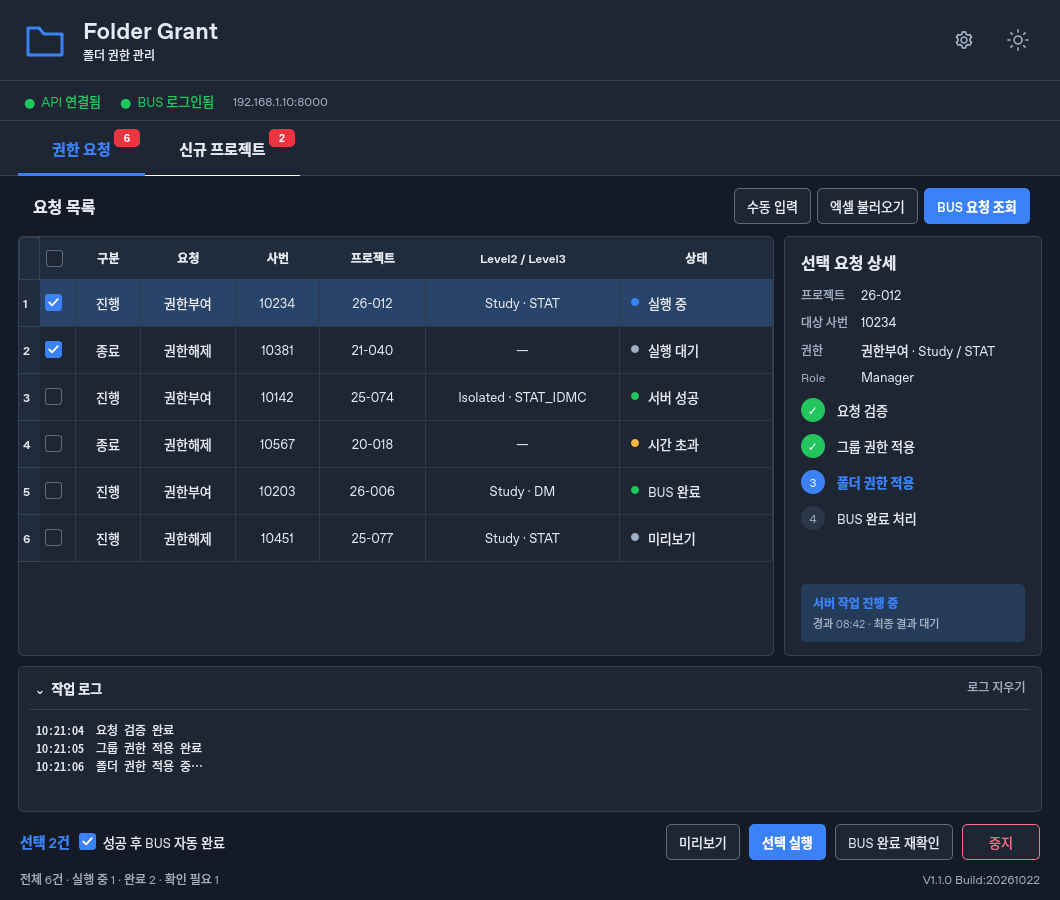
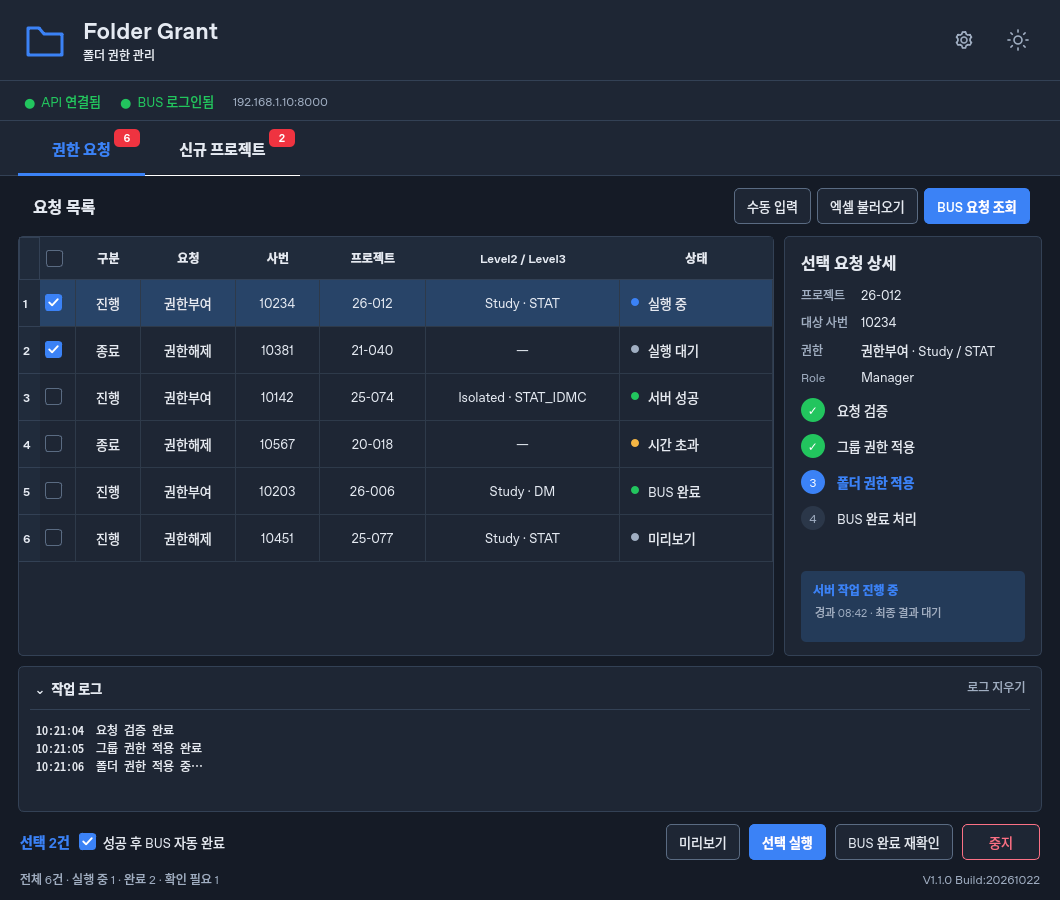
Prevent error detail clipping with a scrollable message area

Changed region(s): [[0.7472, 0.6222, 0.9651, 0.7156]]

diff --git a/Client/tests/render_ui_preview.py b/Client/tests/render_ui_preview.py
@@ -59,6 +59,17 @@ def render():
             w._mark_list_loaded('project',w._newdlg.tbl.rowCount())
             app.processEvents()
             w.grab().save(str(output/'client-projects-v1.1.0.png'))
+        if '--error' in __import__('sys').argv:
+            w.tabs.setCurrentIndex(0); w.apply_theme('light')
+            error = '\\\\LSK_S010\\Study Folder\\19087\\Study\\MW: The system cannot find the file specified.\nicacls grant failed: 2'
+            w.table.item(0,w.COL_PROJ).setText('1987')
+            w.table.item(0,w.COL_LV3).setText('MW')
+            w._set_row_metadata(0,dict(source='bus',result=dict(status='partially_succeeded',error_code='POWERSHELL_FAILED',error_message=error,
+                steps=[dict(type='add_ad_group_member',status='succeeded'),dict(type='grant_folder_acl',status='failed')])))
+            w.table.item(0,w.COL_STATUS).setText('BUS 완료 보류: POWERSHELL_FAILED')
+            w.table.setCurrentCell(0,w.COL_PROJ); w._refresh_detail()
+            for _ in range(4):app.processEvents()
+            w.grab().save(str(output/'client-error-detail-v1.1.0.png'))
         if '--startup' in __import__('sys').argv:
             from PyQt5.QtTest import QTest
             w.hide()

diff --git a/Client/tests/test_ui_design.py b/Client/tests/test_ui_design.py
@@ -282,3 +282,21 @@ class DesignTests(unittest.TestCase):
         self.assertNotIn('raw-only-target',text)
         self.assertNotIn('"status"',text)
         self.assertIn('시간 초과',text)
+
+    def test_long_error_message_is_scrollable_without_losing_last_line(self):
+        w = self.window
+        self.show()
+        self.assertIsInstance(w.status_label,self.m.QTextEdit)
+        message = ('\\LSK_S010\\Study Folder\\19087\\Study\\MW: The system cannot find the file specified.\n'*20)+'마지막 오류 줄'
+        w.status_label.setText(message)
+        self.app.processEvents()
+        self.assertEqual(w.status_label.toPlainText(),message)
+        bar = w.status_label.verticalScrollBar()
+        self.assertGreater(bar.maximum(),0)
+        bar.setValue(bar.maximum())
+        w.status_label.setText(message)
+        self.assertEqual(bar.value(),bar.maximum())
+        w.status_label.setText('성공')
+        self.app.processEvents()
+        self.assertEqual(w.status_label.verticalScrollBar().maximum(),0)
+        self.assertLess(w.status_label.height(),50)
